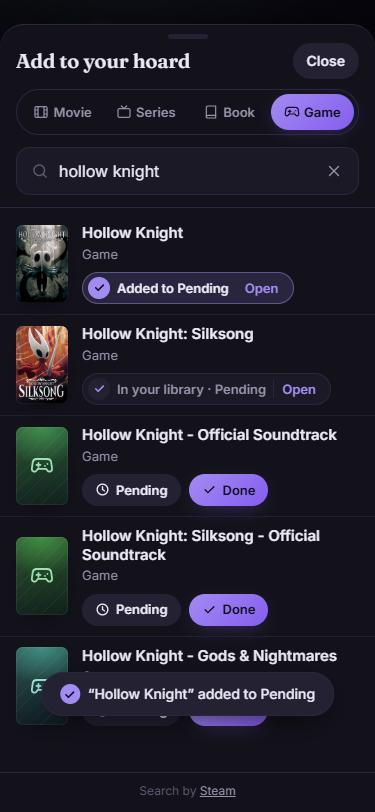
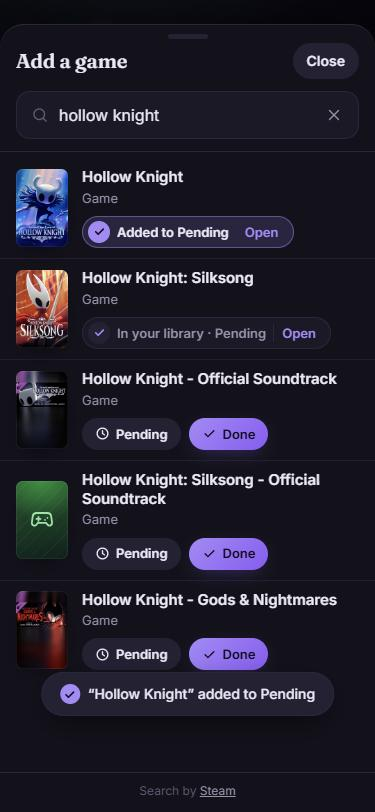
Change logic on add action

diff --git a/virtual-library/public/js/library/search.js b/virtual-library/public/js/library/search.js
@@ -26,7 +26,10 @@ export function createSearch({ getItems, openItem }) {
   const input = $('searchInput');
   const picker = $('searchCategories');
 
-  let category = CATEGORY_IDS.includes(storage.get(CATEGORY_KEY)) ? storage.get(CATEGORY_KEY) : 'movie';
+  // the category picked on the home screen's search, remembered on this phone
+  const homeCategory = () => (CATEGORY_IDS.includes(storage.get(CATEGORY_KEY)) ? storage.get(CATEGORY_KEY) : 'movie');
+  let category = homeCategory();
+  let locked = false;               // opened from a category: only that category can be added
   let credits = {};
   // idle | loading | results | error
   let phase = 'idle';
@@ -74,7 +77,7 @@ export function createSearch({ getItems, openItem }) {
 
   function setCategory(id) {
     category = id;
-    storage.set(CATEGORY_KEY, id);
+    if (!locked) storage.set(CATEGORY_KEY, id);
     input.placeholder = `Search ${categoryOf(id).plural.toLowerCase()}`;
     for (const button of picker.children) {
       const selected = button.dataset.category === id;
@@ -225,10 +228,22 @@ export function createSearch({ getItems, openItem }) {
 
   setCategory(category);
 
+  /** From a category: only that one ("Add a game"). From home: any, with the category buttons. */
+  function lockTo(id) {
+    locked = Boolean(id);
+    picker.hidden = locked;
+    $('searchTitle').textContent = locked ? `Add a ${categoryOf(id).label.toLowerCase()}` : 'Add to your hoard';
+    const wanted = locked ? id : homeCategory();
+    if (wanted !== category) setCategory(wanted);
+  }
+
   return {
-    /** Opens on the given category (the one chosen on the shelf), keeping the last search. */
-    open(preferredCategory) {
-      if (CATEGORY_IDS.includes(preferredCategory) && preferredCategory !== category) setCategory(preferredCategory);
+    /**
+     * Opens the search, keeping the last search text.
+     * @param {string|null} onlyCategory  the category shown on screen (only it can be added), or null on home
+     */
+    open(onlyCategory) {
+      lockTo(CATEGORY_IDS.includes(onlyCategory) ? onlyCategory : null);
       sheet.open();
       // in the tap's handler, so phones show the keyboard; without scrolling, because the sheet is still
       // below the screen (sliding in) and the phone would pan the whole page down to "show" the field

diff --git a/virtual-library/public/index.html b/virtual-library/public/index.html
@@ -57,7 +57,7 @@
       <div class="grabber" data-drag data-close></div>
       <div class="search-head" data-drag>
         <div class="search-title-row">
-          <h2 class="search-title">Add to your hoard</h2>
+          <h2 class="search-title" id="searchTitle">Add to your hoard</h2>
           <button type="button" class="search-close" data-close>Close</button>
         </div>
         <div class="category-picker" id="searchCategories" role="radiogroup" aria-label="What are you looking for?"></div>

diff --git a/virtual-library/DOCS.md b/virtual-library/DOCS.md
@@ -18,7 +18,8 @@ and what's still pending.
 - In each kind, **Pending** is everything you haven't seen, read or played yet, or haven't finished.
   **Done** is everything you've finished. The newest are first. The tab you last used is remembered on each phone.
 - Tap a cover to open it: move it between Pending and Done, rate it, or remove it.
-- **+** searches the kind you're in (on the home screen, the kind you searched last).
+- **+** inside a kind adds to that kind only (e.g. "Add a game"). **+** on the home screen lets you pick the kind
+  (it starts on the one you picked last).
 - To close the search or an item, tap **Close** (or **Back to search**), swipe it down from the top, or use your phone's back button.
 - After adding something, its search result says **✓ Added to Pending** (or Done); tap it to open the item.
 

diff --git a/README.md b/README.md
@@ -8,7 +8,7 @@ finished things an optional 5-star rating. Every item shows its cover. Made for 
 <p>
   <img src="images/home.jpg" alt="Home: a tile per category with its newest covers" width="200">
   <img src="images/category.jpg" alt="Games: finished ones with their ratings" width="200">
-  <img src="images/search.jpg" alt="Searching for a game" width="200">
+  <img src="images/search.jpg" alt="Adding a game from the Games shelf" width="200">
   <img src="images/details.jpg" alt="Finishing a game: confetti and a congratulation" width="200">
 </p>
 

diff --git a/virtual-library/CHANGELOG.md b/virtual-library/CHANGELOG.md
@@ -1,5 +1,9 @@
 # Changelog
 
+## 1.0.6
+- **+** inside a category only adds to that category ("Add a game"), so nothing lands somewhere you're not looking
+- **+** on the home screen still lets you pick the category
+
 ## 1.0.5
 - Fix no cover UI
 
